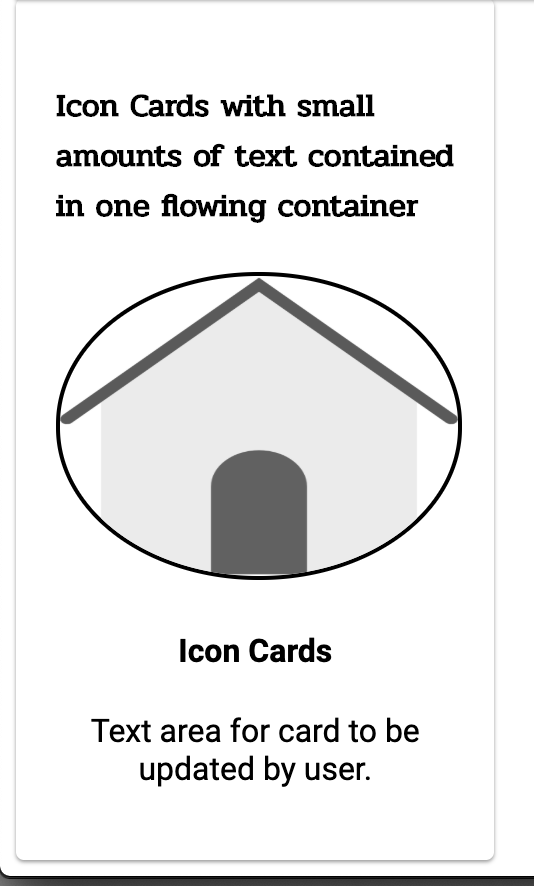
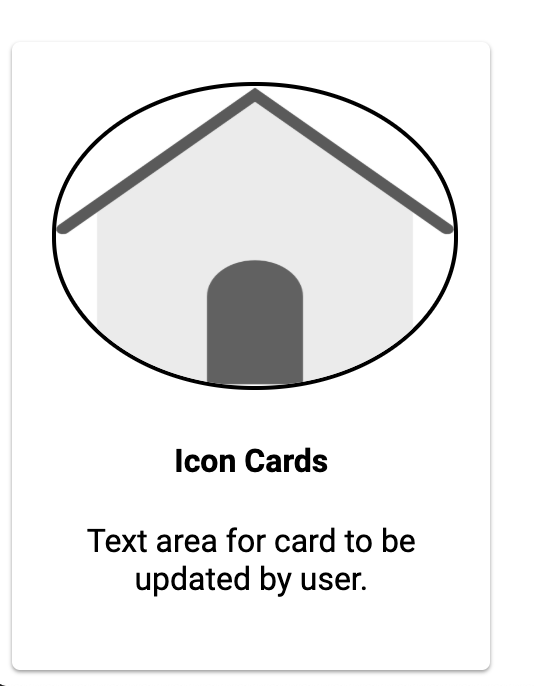
finalized the images of source code and placed them in the site adding images of cards now.

diff --git a/sources/image.html b/sources/image.html
@@ -18,17 +18,8 @@
 <div class="profileCard1Box">
 
                     <div class="profileCard1">
-                        <h4>Traditional image cards with action items at the footer.</h4>
-                        <img src="../sources/images/lowery.jpg" alt="bman1">
-                        <div class="textcontainer">
-                                <h4><b>Image Cards</b></h4> 
-                                <h6>Secondary text</h6>
-                                <p>Text area for card to be updated by user.</p>
-                                <div class="actionItems">
-                                    <button class="button">Button1</button>
-                                    <button class="button">Button2</button>
-                                </div>
-                        </div>
+                        <h4>Image Example For profileCard1</h4>
+                        <img class="example1" src="../sources/images/cardImage/profileCard1Ex.png" alt="profileCard1 example">                    
                     </div>
         
         <div class="exampleCode">
@@ -121,15 +112,22 @@
 
 </div>
 
+
+<div class="iconCard1Box">
                 <div class="iconCard">
-                <h4>Icon Cards with small amounts of text contained in one flowing container</h4>
+                        <h4>Icon Cards with small amounts of text contained in one flowing container</h4>
                         <img src="../sources/images/home.png" alt="home">
                     <div class="text">
                             <h4><b>Icon Cards</b></h4> 
                             <p>Text area for card to be updated by user.</p>
                     </div>
-        </div>
+                </div>
 
+                <div class="exampleCode">
+                        <h4>Source Code for iconCard</h4>
+                        <img class="example6" src="../sources/images/codeSS/imageCard1.png" alt="imageCard example">
+                </div>
+</div>
 
 </body>
 </html>

diff --git a/sources/sass/image.scss b/sources/sass/image.scss
@@ -557,6 +557,23 @@ input[type='checkbox'] {
 
 //start of styling for iconcard1
 
+.iconCard1Box {
+    .iconCard {
+        h4 {
+            font-family: $headerFam;
+        }
+    }
+}
+
+.iconCard1Box {
+    display: flex;
+    justify-content: space-evenly;
+}
+
+.example6 {
+    width: 90%;
+}
+
 .iconCard {
     border-radius: 4px;
     width: 12%;

diff --git a/sources/css/image.css b/sources/css/image.css
@@ -446,6 +446,16 @@ h4 {
     .imageCard1 .textcontainer h3 {
       font-size: 15px; } }
 
+.iconCard1Box .iconCard h4 {
+  font-family: "Pridi", serif; }
+
+.iconCard1Box {
+  display: flex;
+  justify-content: space-evenly; }
+
+.example6 {
+  width: 90%; }
+
 .iconCard {
   border-radius: 4px;
   width: 12%;
